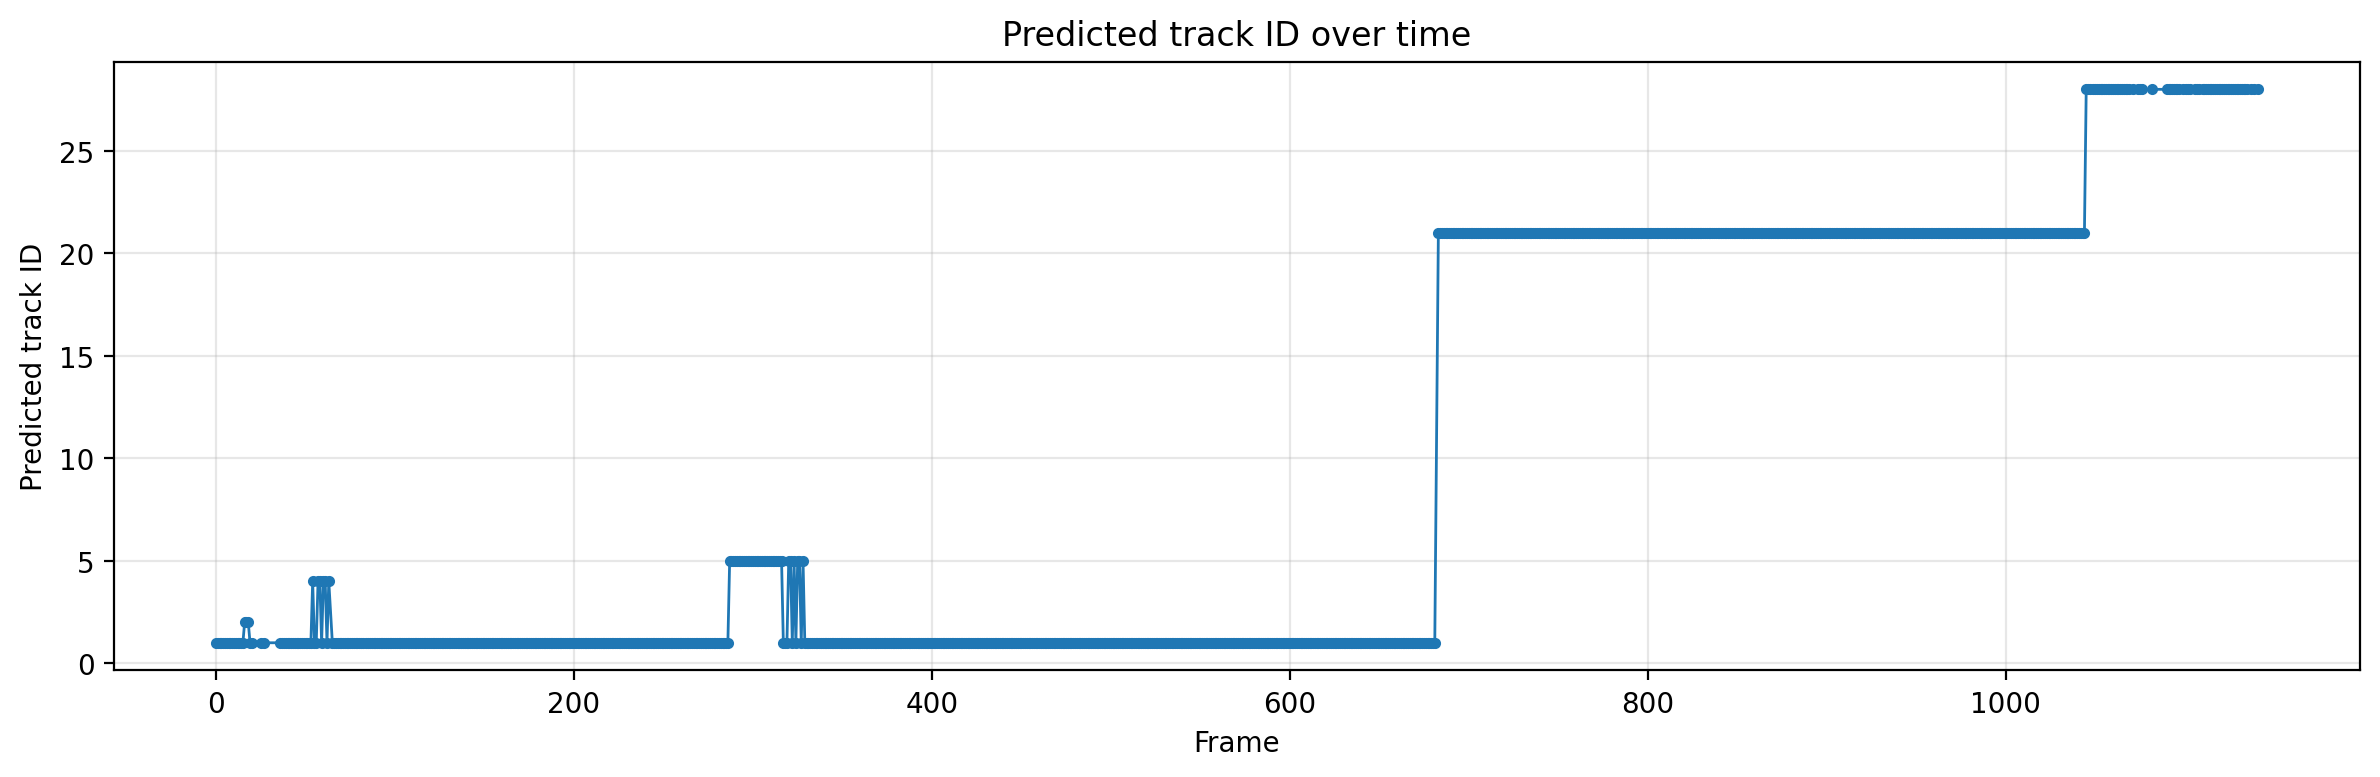
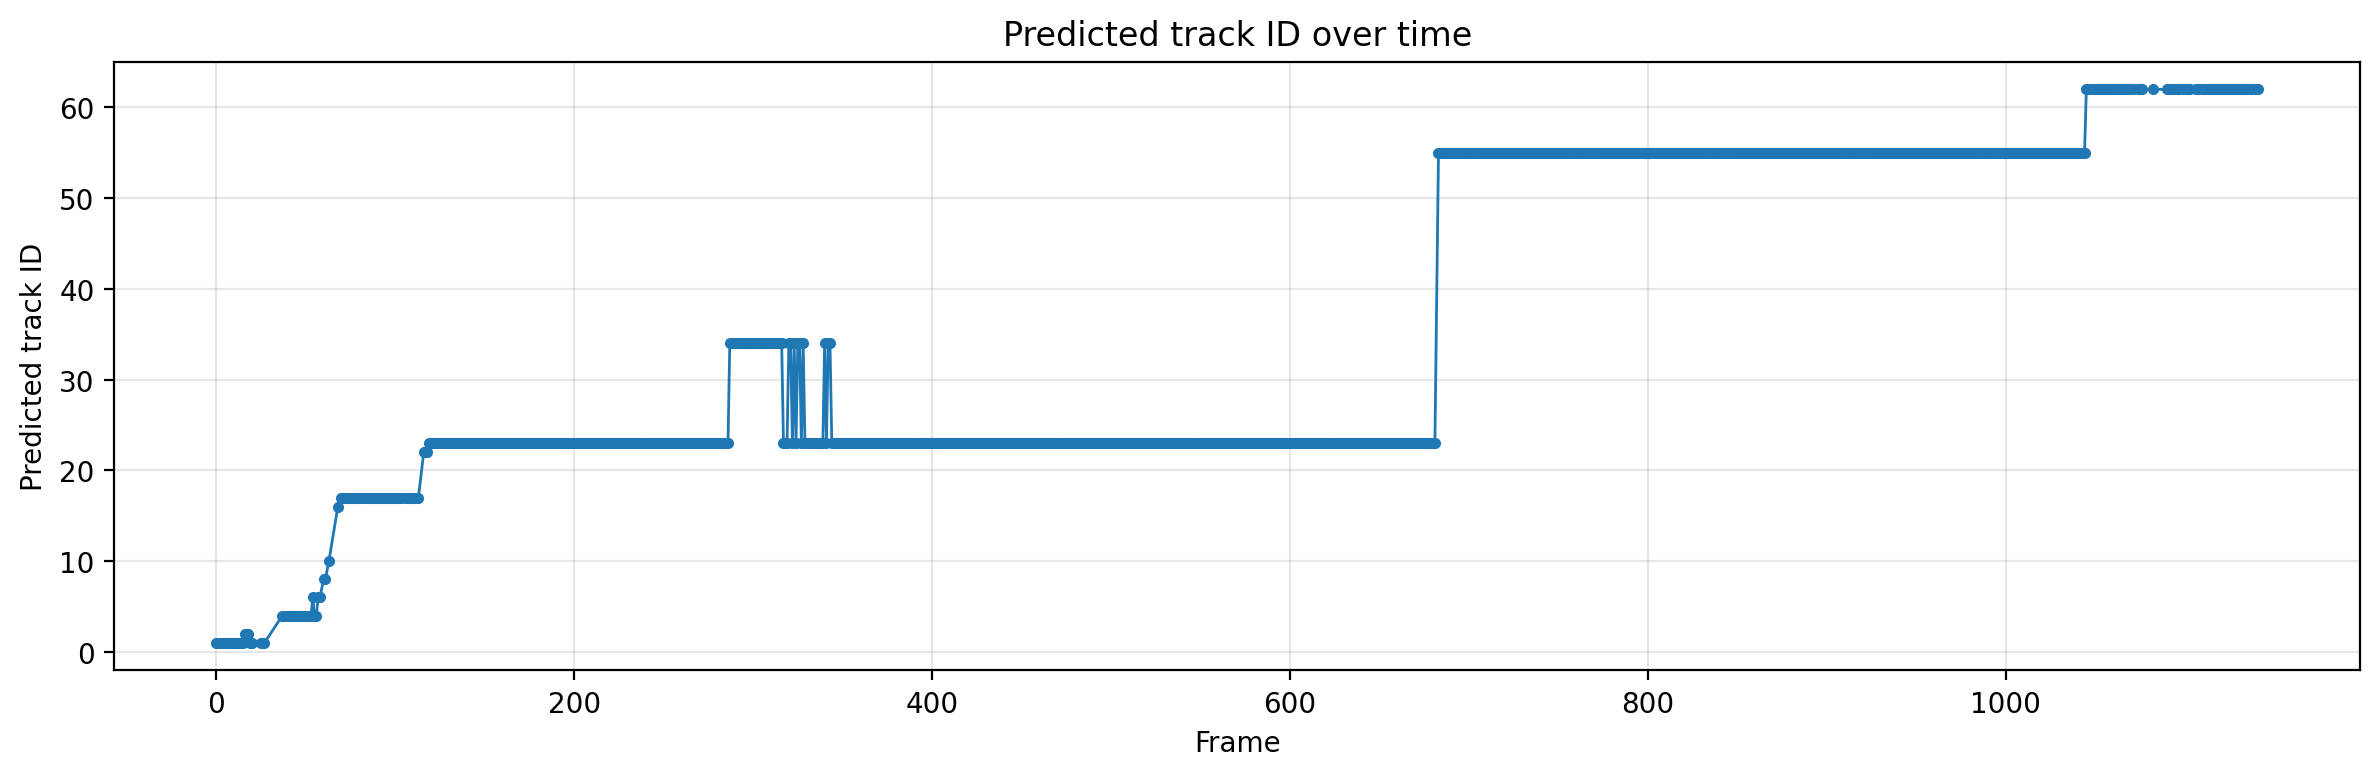
added detection metrics and visualization

diff --git a/scripts/visualize_detections.py b/scripts/visualize_detections.py
@@ -1,0 +1,78 @@
+import csv
+from collections import defaultdict
+from pathlib import Path
+import argparse
+import cv2
+import matplotlib.pyplot as plt
+
+def load_detections(csv_path):
+    detections_by_frame = defaultdict(list)
+    with open(csv_path, "r") as f:
+        reader = csv.DictReader(f)
+        for row in reader:
+            frame = int(row["frame"])
+            detections_by_frame[frame].append({
+                "confidence": float(row["confidence"]),
+                "x1": int(float(row["x1"])),
+                "y1": int(float(row["y1"])),
+                "x2": int(float(row["x2"])),
+                "y2": int(float(row["y2"])),
+            })
+    return detections_by_frame
+
+
+def main():
+    parser = argparse.ArgumentParser()
+    parser.add_argument("--video", required=True)
+    parser.add_argument("--detection", required=True)
+    args = parser.parse_args()
+
+    detections_by_frame = load_detections(args.detection)
+
+    cap = cv2.VideoCapture(args.video)
+    confidence_list = []
+    # Create resizable window first
+    cv2.namedWindow("YOLO11 Detection", cv2.WINDOW_NORMAL)
+    cv2.resizeWindow("YOLO11 Detection", 800, 600)
+    
+    if not cap.isOpened():
+        raise RuntimeError(f"Could not open video: {args.video}")
+
+    frame_idx = 0
+    while True:
+        ok, frame = cap.read()
+        if not ok:
+            break
+
+        for det in detections_by_frame.get(frame_idx, []):
+            cv2.rectangle(frame, (det["x1"], det["y1"]), (det["x2"], det["y2"]), (0, 255, 0), 2)
+            cv2.putText(
+                frame,
+                f'Whale {det["confidence"]:.2f}',
+                (det["x1"], max(20, det["y1"] - 8)),
+                cv2.FONT_HERSHEY_SIMPLEX,
+                0.6,
+                (0, 255, 0),
+                2,
+            )
+            confidence_list.append(det["confidence"])
+        cv2.imshow("YOLO11 Detection", frame)
+        #slow down framrate for visualization
+        frame_idx += 1
+        if cv2.waitKey(1) & 0xFF == ord('q'):
+            break
+
+    cap.release()
+    cv2.destroyAllWindows()
+
+    plt.figure(figsize=(8, 4))
+    plt.hist(confidence_list, bins=20, range=(0, 1), alpha=0.7, color='blue')
+    plt.title("Detection Confidence Distribution")
+    plt.xlabel("Confidence")
+    plt.ylabel("Frequency")
+    plt.grid(axis='y', alpha=0.75)
+    plt.show()
+
+
+if __name__ == "__main__":
+    main()

diff --git a/src/whale_mot/evaluation/convert_gt_to_csv_detection.py b/src/whale_mot/evaluation/convert_gt_to_csv_detection.py
@@ -1,0 +1,45 @@
+import pandas as pd
+
+def mot_txt_to_detection_gt(txt_path, output_path):
+    """
+    Convert MOT .txt (CVAT export) to detection-style gt.csv with columns:
+    frame,x1,y1,x2,y2,confidence,class_id
+    """
+
+    # Read MOT file
+    df = pd.read_csv(txt_path, header=None)
+
+    # Assign MOT column names
+    df.columns = [
+        "frame", "id", "x", "y", "w", "h",
+        "confidence", "class_id", "visibility"
+    ]
+
+    # Convert frame indexing (1-based → 0-based)
+    df["frame"] = df["frame"] - 1
+    df["class_id"] = df["class_id"] - 1  # Ensure class_id is int
+
+    # Convert to xyxy format
+    df["x1"] = df["x"]
+    df["y1"] = df["y"]
+    df["x2"] = df["x"] + df["w"]
+    df["y2"] = df["y"] + df["h"]
+
+    # Select detection-style columns (drop track id)
+    detection_gt = df[[
+        "frame", "x1", "y1", "x2", "y2",
+        "confidence", "class_id"
+    ]].copy()
+
+    # Optional: ensure consistent types
+    detection_gt["frame"] = detection_gt["frame"].astype(int)
+
+    # Save
+    detection_gt.to_csv(output_path, index=False)
+
+    print(f"Saved detection GT to: {output_path}")
+
+if __name__ == "__main__":
+    # Example usage
+    mot_txt_to_detection_gt("/home/marcm/Documents/EPFL/MA4/whale_project/whale_mot/data/gt_mot/poc_testSet (1)/gt/gt.txt", 
+                            "/home/marcm/Documents/EPFL/MA4/whale_project/whale_mot/data/gt_mot/detection_gt.csv")

diff --git a/src/whale_mot/evaluation/convert_gt_to_csv_tracking.py b/src/whale_mot/evaluation/convert_gt_to_csv_tracking.py
@@ -1,0 +1,45 @@
+import pandas as pd
+
+import pandas as pd
+
+def mot_txt_to_track_gt(txt_path, output_path):
+    """
+    Convert MOT .txt (CVAT export) to track_gt.csv with columns:
+    frame,id,x1,y1,x2,y2,confidence,class_id
+    """
+
+    # Read MOT file
+    df = pd.read_csv(txt_path, header=None)
+
+    # Assign MOT column names
+    df.columns = [
+        "frame", "id", "x", "y", "w", "h",
+        "confidence", "class_id", "visibility"
+    ]
+
+    # Convert to corner format
+    df["frame"] = df["frame"] - 1
+    df["x1"] = df["x"]
+    df["y1"] = df["y"]
+    df["x2"] = df["x"] + df["w"]
+    df["y2"] = df["y"] + df["h"]
+
+    # Select final columns
+    track_gt = df[[
+        "frame", "id", "x1", "y1", "x2", "y2",
+        "confidence", "class_id"
+    ]].copy()
+
+    # Optional: enforce types
+    track_gt["frame"] = track_gt["frame"].astype(int)
+    track_gt["id"] = track_gt["id"].astype(int)
+
+    # Save
+    track_gt.to_csv(output_path, index=False)
+
+    print(f"Saved to {output_path}")
+
+if __name__ == "__main__":
+    # Example usage
+    mot_txt_to_track_gt("/home/marcm/Documents/EPFL/MA4/whale_project/whale_mot/data/gt_mot/poc_testSet (1)/gt/gt.txt", 
+                        "/home/marcm/Documents/EPFL/MA4/whale_project/whale_mot/data/gt_mot/track_gt.csv")

diff --git a/src/whale_mot/evaluation/track_continuity.py b/src/whale_mot/evaluation/track_continuity.py
@@ -370,8 +370,8 @@ def plot_track_id_over_time(
 
 
 if __name__ == "__main__":
-    gt_csv = "/home/marcm/Documents/EPFL/MA4/whale_project/whale_mot/outputs/tracks/sample_tracks_initial.csv"
-    pred_csv = "/home/marcm/Documents/EPFL/MA4/whale_project/whale_mot/outputs/tracks/sample_tracks_botsort_finetuned.csv"
+    gt_csv = "/home/marcm/Documents/EPFL/MA4/whale_project/whale_mot/data/gt_mot/track_gt.csv"
+    pred_csv = "/home/marcm/Documents/EPFL/MA4/whale_project/whale_mot/outputs/tracks/sample_tracks_finetuned.csv"
 
 
     segments = compute_continuity_segments(
@@ -395,7 +395,7 @@ if __name__ == "__main__":
         segments=segments,
         save_path="outputs/eval/continuity_segments.png",
         show=True,
-        min_label_length=25,
+        min_label_length=1,
     )
 
     plot_track_id_over_time(

diff --git a/src/whale_mot/evaluation/tracking_metrics.py b/src/whale_mot/evaluation/tracking_metrics.py
@@ -110,8 +110,8 @@ def compute_tracking_metrics(
     )
 
 if __name__ == "__main__":
-    gt_csv = "/home/marcm/Documents/EPFL/MA4/whale_project/whale_mot/outputs/tracks/sample_tracks_botsort_finetuned.csv"
-    pred_csv = "/home/marcm/Documents/EPFL/MA4/whale_project/whale_mot/outputs/tracks/sample_tracks_botsort_finetuned.csv"
+    gt_csv = "/home/marcm/Documents/EPFL/MA4/whale_project/whale_mot/data/gt_mot/track_gt.csv"
+    pred_csv = "/home/marcm/Documents/EPFL/MA4/whale_project/whale_mot/outputs/tracks/sample_tracks_finetuned.csv"
 
     metrics = compute_tracking_metrics(gt_csv, pred_csv)
     print(metrics)

diff --git a/src/whale_mot/evaluation/detection_metrics.py b/src/whale_mot/evaluation/detection_metrics.py
@@ -106,7 +106,7 @@ def compute_detection_metrics(
 
 
 if __name__ == "__main__":
-    gt_csv = "/home/marcm/Documents/EPFL/MA4/whale_project/whale_mot/outputs/detections/sample_detections_finetuned.csv"
+    gt_csv = "/home/marcm/Documents/EPFL/MA4/whale_project/whale_mot/data/gt_mot/detection_gt.csv"
     pred_csv = "/home/marcm/Documents/EPFL/MA4/whale_project/whale_mot/outputs/detections/sample_detections_finetuned.csv"
 
     metrics = compute_detection_metrics(gt_csv, pred_csv)

diff --git a/src/whale_mot/detectors/registry.py b/src/whale_mot/detectors/registry.py
@@ -8,7 +8,7 @@ def build_detector(cfg: dict):
         return UltralyticsDetector(
             model_name=cfg["model_name"],
             device=cfg.get("device", "cpu"),
-            conf=cfg.get("conf", 0.25),
+            conf=cfg.get("conf", 0.85),
         )
 
     raise ValueError(f"Unknown detector: {name}")
